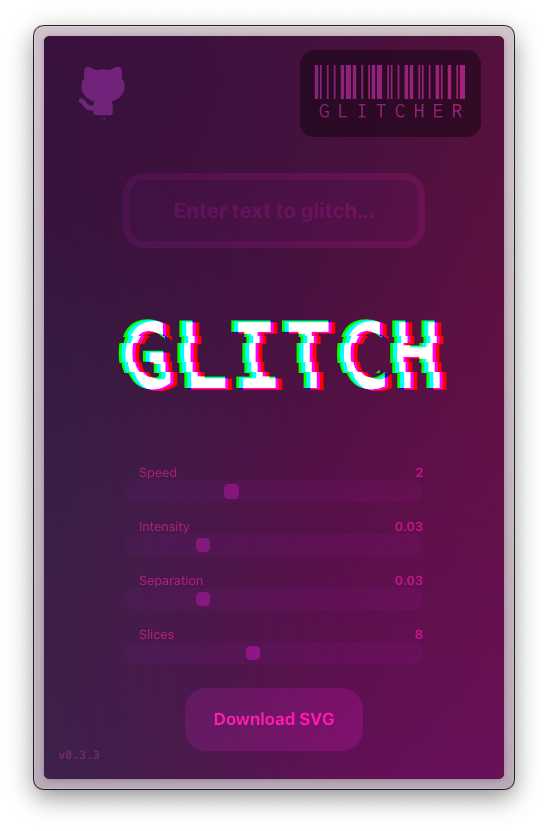
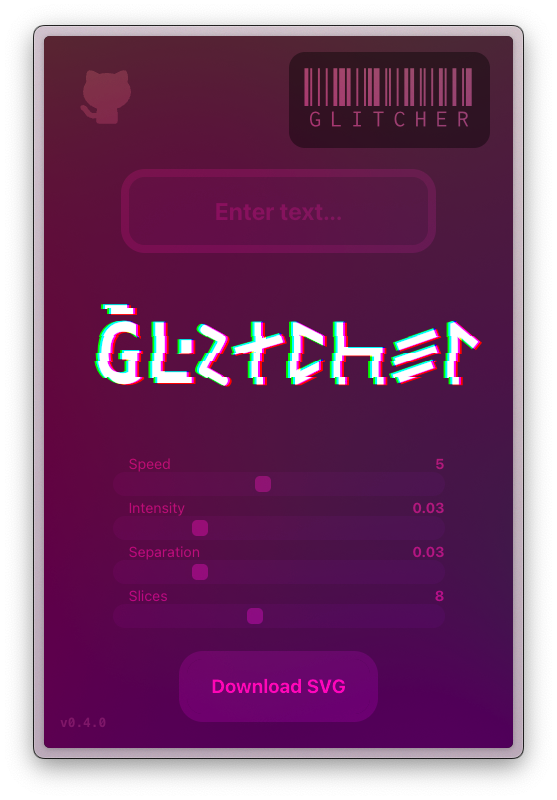
v0.4 improvements

diff --git a/src/main.js b/src/main.js
@@ -1,20 +1,23 @@
 import gradientGL from 'gradient-gl'
 import '../public/style.css'
 
-gradientGL('a2.bf7c')
+gradientGL('a2.bf6a')
 
 const $ = document.getElementById.bind(document)
-const $$ = document.querySelector.bind(document)
-const $$$ = document.querySelectorAll.bind(document)
-const rand = (min, max) => Math.random() * (max - min) + min
-const randInt = (min, max) => Math.floor(rand(min, max))
 const parse = (el) => Number.parseFloat(el.value)
 
+const colorMatrices = {
+  red: '1 0 0 0 0 0 0 0 0 0 0 0 0 0 0 0 0 0 1 0',
+  green: '0 0 0 0 0 0 1 0 0 0 0 0 0 0 0 0 0 0 1 0',
+  blue: '0 0 0 0 0 0 0 0 0 0 0 0 1 0 0 0 0 0 1 0',
+}
+
 const createKeyTimes = (steps = 8) =>
-  [0, ...Array.from({ length: steps - 2 }, () => rand(0.08, 1)).sort((a, b) => a - b), 1].join(';')
+  [0, ...Array.from({ length: steps - 2 }, () => Math.random() * 0.92 + 0.08)
+    .sort((a, b) => a - b), 1].join(';')
 
 const createValues = (max, steps = 8) =>
-  Array.from({ length: steps }, () => rand(0.001, max)).join(';')
+  Array.from({ length: steps }, () => Math.random() * (max - 0.001) + 0.001).join(';')
 
 const createSlice = (i, y, height, duration, intensity) => {
   const values = createValues(intensity)
@@ -29,32 +32,77 @@ const createSlice = (i, y, height, duration, intensity) => {
   `
 }
 
-const colorMatrices = {
-  red: '1 0 0 0 0 0 0 0 0 0 0 0 0 0 0 0 0 0 1 0',
-  green: '0 0 0 0 0 0 1 0 0 0 0 0 0 0 0 0 0 0 1 0',
-  blue: '0 0 0 0 0 0 0 0 0 0 0 0 1 0 0 0 0 0 1 0',
+const measureText = (text) => {
+  const span = Object.assign(document.createElement('span'), {
+    style: `
+      font-family: monospace, serif;
+      font-weight: bolder;
+      font-size: 24px;
+      visibility: hidden;
+      position: absolute;
+      white-space: nowrap;
+      letter-spacing: 0.1em;
+    `,
+    textContent: text
+  })
+  document.body.appendChild(span)
+  const width = span.getBoundingClientRect().width
+  document.body.removeChild(span)
+  return width
 }
 
-const createGlitchEffect = (text) => {
-  const width = text.length * 20
-  const [speed, intensity, colorSep, heightVariation] = [
-    'speed',
-    'intensity',
-    'colorSep',
-    'slices',
-  ].map((id) => parse($(id)))
+const calculateDimensions = (text) => {
+  const textWidth = measureText(text)
+  console.log('Text width:', textWidth)
+  
+  const padding = Math.max(1, textWidth * 0.005)
+  const buffer = Math.min(8, textWidth * 0.02)
+  const width = textWidth + padding * 2 + buffer
+  
+  return {
+    width: Math.max(100, width),
+    height: 48,
+    verticalPadding: 12,
+    fontSize: 24
+  }
+}
 
-  const sliceHeights = Array.from({ length: 8 }, () => randInt(6, 6 + heightVariation * 2))
+const calculateSliceDurations = (speed, normalizedHeights) => 
+  normalizedHeights.map(height => {
+    let duration
+    if (speed < 3) {
+      duration = 300 - (speed * 80)
+    } else if (speed < 7) {
+      duration = 60 * (0.3 ** (speed - 3))
+    } else {
+      duration = 20 * (0.2 ** (speed - 7))
+    }
+    
+    const heightVariation = 1 + (height / 100)
+    const randomVariation = 0.8 + Math.random() * 0.4
+    return Number(Math.max(0.05, duration * heightVariation * randomVariation).toFixed(2))
+  })
 
-  const sliceDurations = sliceHeights.map(() => speed * (0.8 + Math.random() * 0.4))
+const createGlitchEffect = (text, params) => {
+  const { width, height, verticalPadding, fontSize } = calculateDimensions(text)
+  const { speed, intensity, colorSep, heightVariation } = params
 
-  const sliceYs = sliceHeights.map((_, i) =>
-    sliceHeights.slice(0, i).reduce((sum, h) => sum + h, 0),
-  )
+  const sliceHeights = Array.from({ length: 8 }, () => 
+    Math.floor(Math.random() * (6 + heightVariation * 2 - 6) + 6))
+  
+  const totalHeight = sliceHeights.reduce((sum, h) => sum + h, 0)
+  const normalizedHeights = sliceHeights.map(h => 
+    Math.max(6, Math.round((h / totalHeight) * 100)))
+  
+  const currentTotal = normalizedHeights.reduce((sum, h) => sum + h, 0)
+  normalizedHeights[normalizedHeights.length - 1] += 100 - currentTotal
 
-  const slices = sliceHeights.map((height, i) =>
-    createSlice(i, sliceYs[i], height, sliceDurations[i], intensity),
-  )
+  const sliceYs = normalizedHeights.map((_, i) =>
+    normalizedHeights.slice(0, i).reduce((sum, h) => sum + h, 0))
+
+  const sliceDurations = calculateSliceDurations(speed, normalizedHeights)
+  const slices = normalizedHeights.map((height, i) =>
+    createSlice(i, sliceYs[i], height, sliceDurations[i], intensity))
 
   const colorMatrix = (channel) => `
     <feColorMatrix in="SourceGraphic" result="${channel}" type="matrix" 
@@ -75,12 +123,12 @@ const createGlitchEffect = (text) => {
   }
 
   return `
-    <svg xmlns="http://www.w3.org/2000/svg" width="${width}px" height="48px" viewBox="0 0 ${width} 48">
+    <svg xmlns="http://www.w3.org/2000/svg" width="${width}px" height="${height}px" viewBox="0 0 ${width} ${height}">
       <text filter="url(#glitch)" fill="#FFFFFF" font-family="monospace, serif" 
-            font-weight="bolder" font-size="24" text-anchor="middle" 
+            font-weight="bolder" font-size="${fontSize}" text-anchor="middle" 
             dominant-baseline="middle" x="50%" y="50%">${text}</text>
       <defs>
-        <filter id="glitch" primitiveUnits="objectBoundingBox" x="0%" y="0%" height="100%">
+        <filter id="glitch" primitiveUnits="objectBoundingBox" x="-10%" y="0%" width="120%" height="100%">
           ${Object.keys(colorMatrices).map(colorMatrix).join('')}
           ${colorOffset('red', -0.01, speed)}
           ${colorOffset('blue', 0.01, speed * 1.1)}
@@ -102,8 +150,16 @@ const updatePreview = (e) => {
     e.preventDefault()
     e.stopPropagation()
   }
-  const text = $('textInput').value || 'GLITCH'
-  $('preview').innerHTML = createGlitchEffect(text)
+  
+  const text = $('textInput').value || 'ḠĿ𐪌𐌕ꛕ𖩘꠵ⵤ'
+  const params = {
+    speed: parse($('speed')),
+    intensity: parse($('intensity')),
+    colorSep: parse($('colorSep')),
+    heightVariation: parse($('slices'))
+  }
+  
+  $('preview').innerHTML = createGlitchEffect(text, params)
 }
 
 const downloadSVG = () => {
@@ -123,7 +179,5 @@ for (const id of ['textInput', 'speed', 'intensity', 'colorSep', 'slices']) {
 }
 
 $('download').addEventListener('click', downloadSVG)
-
 $('version').textContent = `v${import.meta.env.VERSION}`
-
 updatePreview()

diff --git a/index.html b/index.html
@@ -8,7 +8,8 @@
   <meta name="description" content="A dynamic SVG glitch effect generator with real-time preview and customization." />
   <meta name="author" content="metaory" />
   <meta property="og:title" content="SVG Glitch Generator" />
-  <meta property="og:description" content="A dynamic SVG glitch effect generator with real-time preview and customization." />
+  <meta property="og:description"
+    content="A dynamic SVG glitch effect generator with real-time preview and customization." />
   <meta property="og:image" content="https://metaory.github.io/glitcher-app/social.jpg" />
   <meta property="og:type" content="website" />
   <meta property="og:url" content="https://metaory.github.io/glitcher-app/" />
@@ -27,12 +28,14 @@
       </a>
       <span>Glitcher</span>
     </header>
-    <input type="text" id="textInput" placeholder="Enter text to glitch..." spellcheck="false" />
+    <input type="text" id="textInput" placeholder="Enter text..." spellcheck="false" />
     <div id="preview"></div>
-    <input type="range" id="speed" title="Speed" min="0.5" max="5" step="0.1" value="2" />
-    <input type="range" id="intensity" title="Intensity" min="0.01" max="0.1" step="0.001" value="0.03" />
-    <input type="range" id="colorSep" title="Separation" min="0.01" max="0.1" step="0.001" value="0.03" />
-    <input type="range" id="slices" title="Slices" min="3" max="15" step="1" value="8" />
+    <div id="controls">
+      <input type="range" id="speed" title="Speed" min="1" max="10" step="0.1" value="5" />
+      <input type="range" id="intensity" title="Intensity" min="0.01" max="0.1" step="0.001" value="0.03" />
+      <input type="range" id="colorSep" title="Separation" min="0.01" max="0.1" step="0.001" value="0.03" />
+      <input type="range" id="slices" title="Slices" min="3" max="15" step="1" value="8" />
+    </div>
     <button id="download"><span>Download SVG</span></button>
     <div id="version"></div>
   </main>

diff --git a/public/style.css b/public/style.css
@@ -41,7 +41,7 @@ body {
 main {
   display: grid;
   place-items: center;
-  gap: 2rem;
+  gap: 1.8rem;
   min-height: 90vh;
   margin: 0 auto;
 }
@@ -51,7 +51,7 @@ header {
   justify-content: space-between;
   align-items: center;
   width: 90%;
-  padding: 1rem;
+  padding: 1rem 1rem 0;
   mix-blend-mode: overlay;
   transition: transform 0.2s ease;
 
@@ -71,6 +71,7 @@ header {
     border-radius: 50%;
 
     img {
+      color: cyan;
       filter: invert(1);
 
       transition: all 0.3s ease;
@@ -82,6 +83,10 @@ header {
   }
 }
 
+#controls {
+  display: grid;
+  gap: 1rem;
+}
 
 input,
 button {
@@ -119,7 +124,6 @@ input[type="range"] {
   height: 0.5rem;
   appearance: none;
   position: relative;
-  /* margin: 1rem auto; */
   outline: none;
   display: block;
 
@@ -182,6 +186,7 @@ button {
   width: 100%;
 
   svg {
+    color-scheme: only dark;
     width: 100%;
     height: 100%;
     max-height: 200px;

diff --git a/README.md b/README.md
@@ -1,5 +1,7 @@
 <div align="center">
-    <img src="public/logo.png" alt="demo" height="128" />
+    <div>
+        <img src="public/logo.svg" alt="demo" width="60%" height="240" />
+    </div>
     <h3><kbd>&nbsp;Glitcher&nbsp;App&nbsp;</kbd></h3>
     <h4>
         <a href="https://metaory.github.io/glitcher-app/" target="_blank">
@@ -11,7 +13,12 @@
         <br>
         with real-time preview and customization
     </p>
+    <img src="public/glitcher.svg" width="60%" />
     <img src="public/screenshot.png" alt="demo" width="60%" />
     <br>
     <a href="LICENSE">MIT</a> License
+    <br>
+    <img src="public/emoji_1.svg" alt="demo" width="20%" height="60" />
+    <img src="public/symbol.svg"  alt="demo" width="20%" height="120" />
+    <img src="public/emoji_2.svg" alt="demo" width="20%" height="60" />
 </div>
